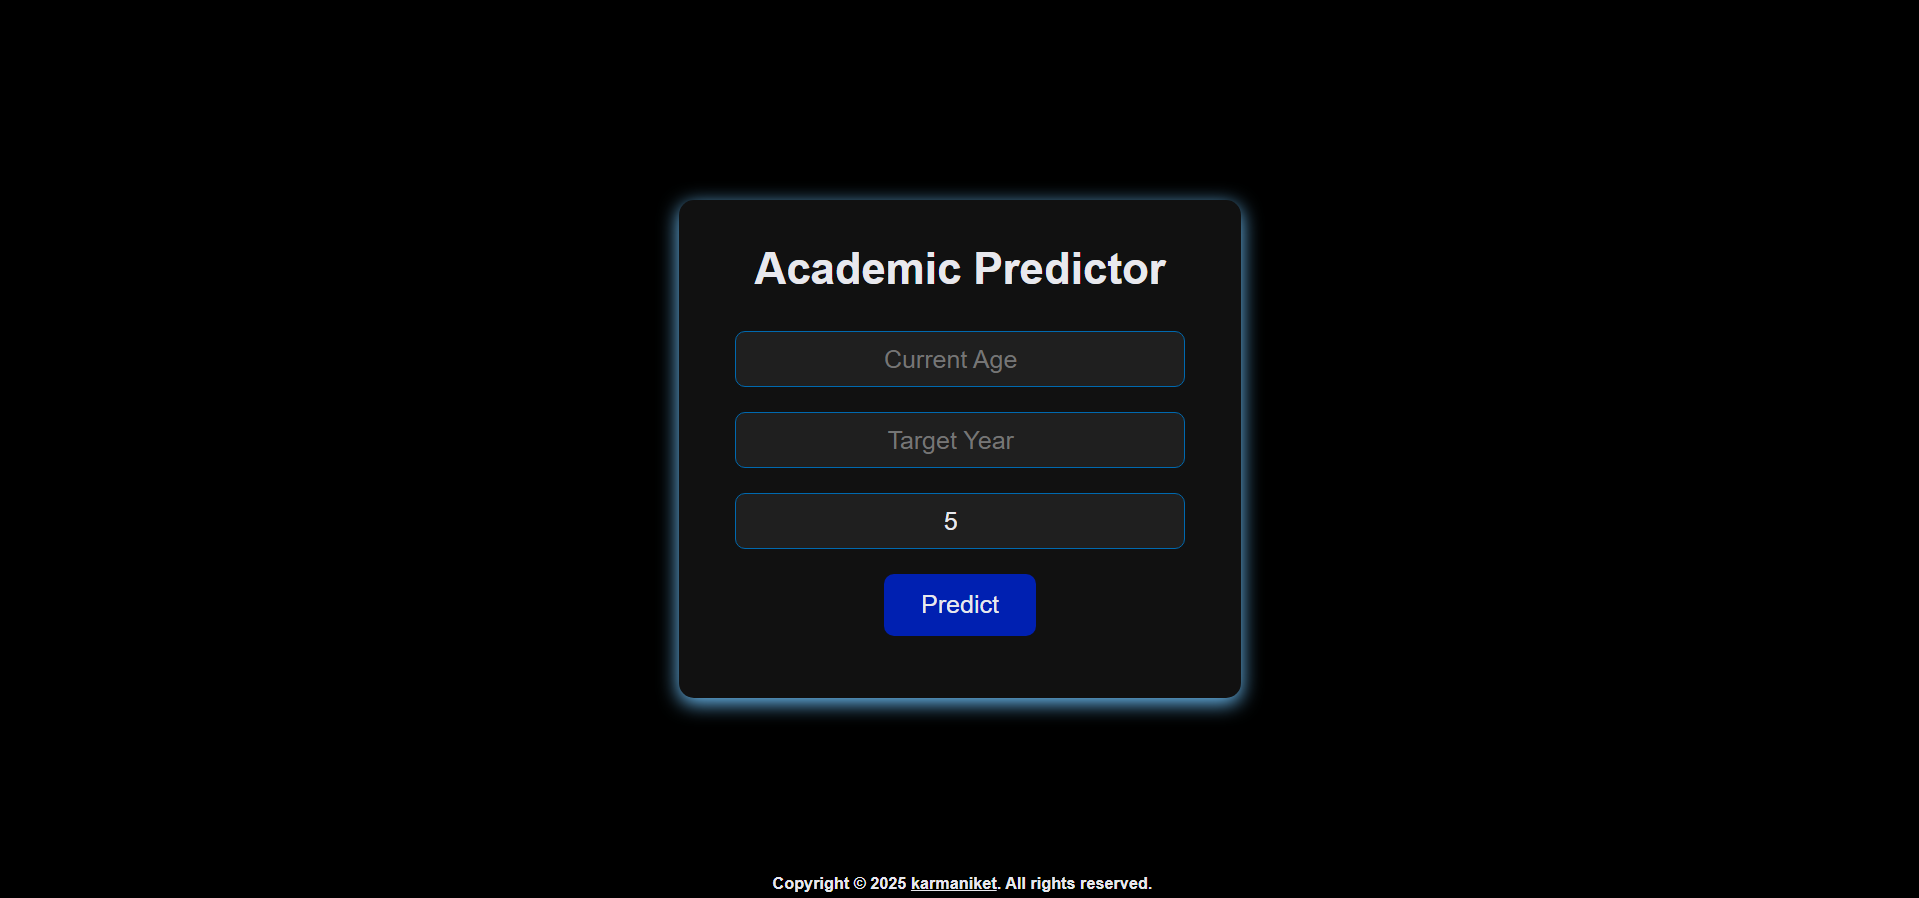
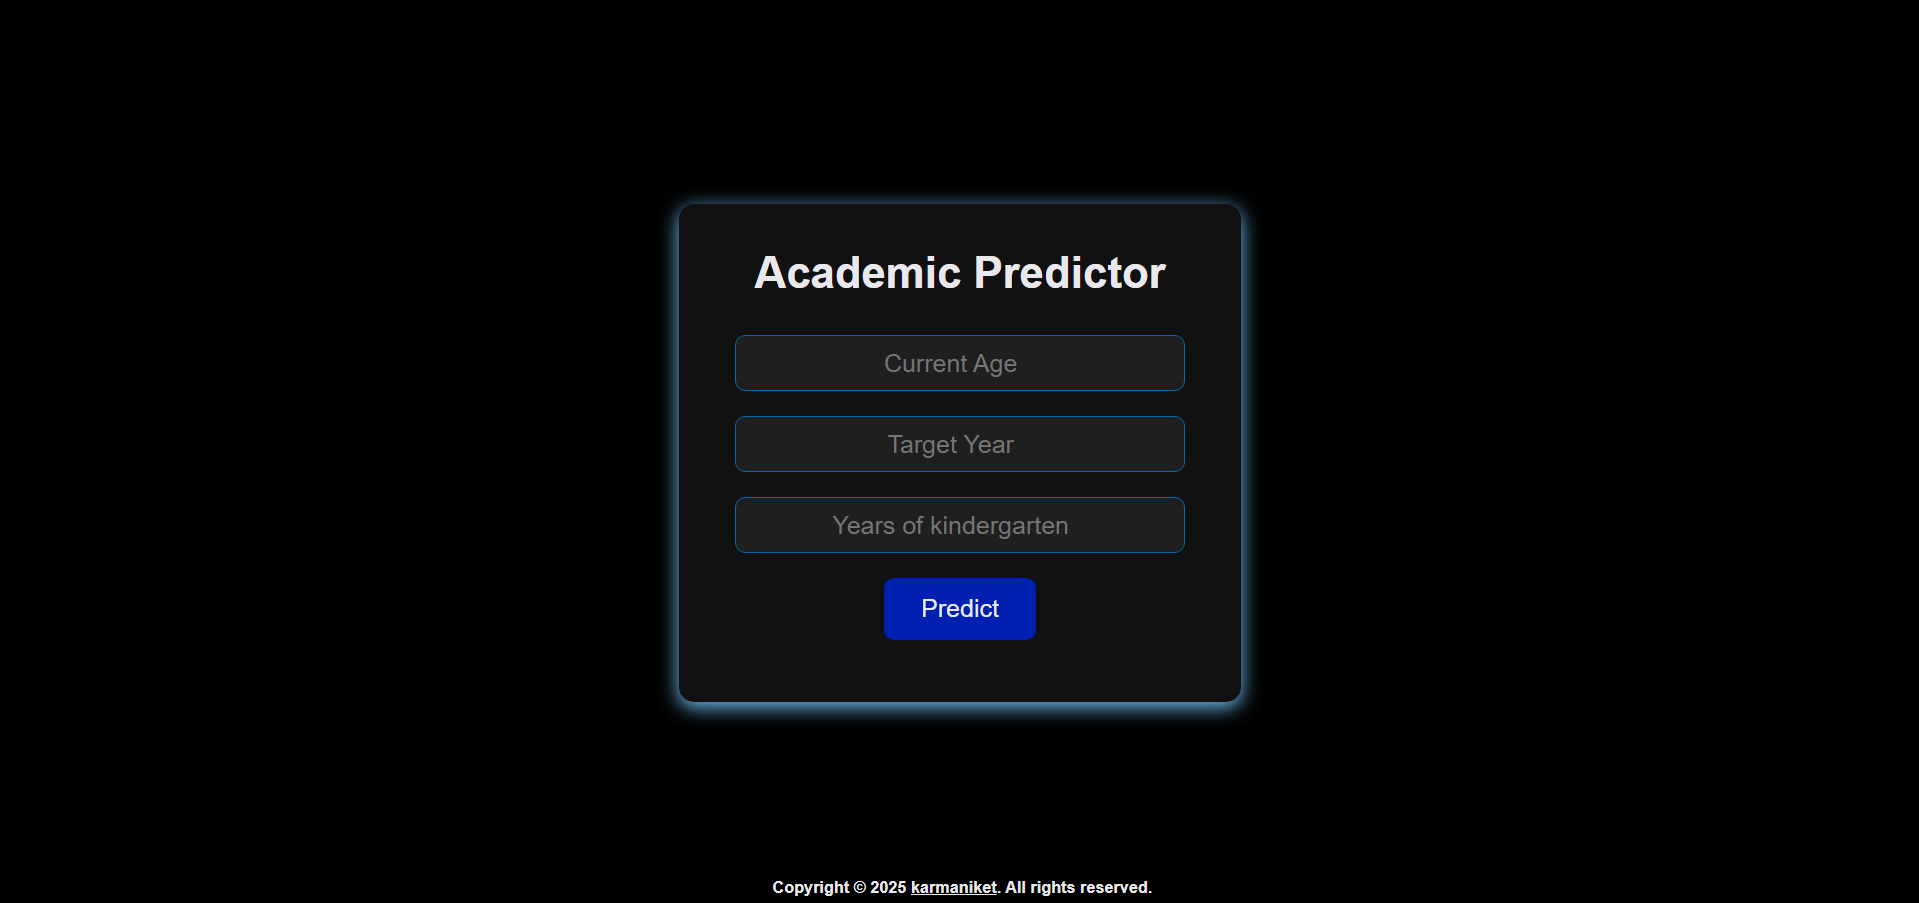
update

diff --git a/README.md b/README.md
@@ -1,10 +1,10 @@
 <h1 align="center">Academic Journey Predictor</h1>
 
-### Created an intuitive `JavaScript` based web app for students and graduates to predict their academic journey.
+Created an intuitive `JavaScript` based web app for students and graduates to predict their academic journey.
 
 ## 🌐 Live Demo
 
-### Try the deployed <a href="https://academicpredictor.pages.dev">Academic Predictor</a> app now!
+### Try <a href="https://academicpredictor.pages.dev">Academic Predictor</a> app now!
 
 <img width="auto" src="academic.png" >
 
@@ -13,6 +13,14 @@
 - Predicts academic year using numeric input
 - Purely script based web app
 - Easily deployable on Cloudflare
+
+## ❓ How to use
+
+> [!TIP]
+> Simply enter your current age <br>
+> Enter your desired/target year <br>
+> Enter your total years spent in kindergarten (default 5)  <br>
+> Select your higher education, master's or bachelor's <br>
 
 ## 📦 Installation and Setup
 
